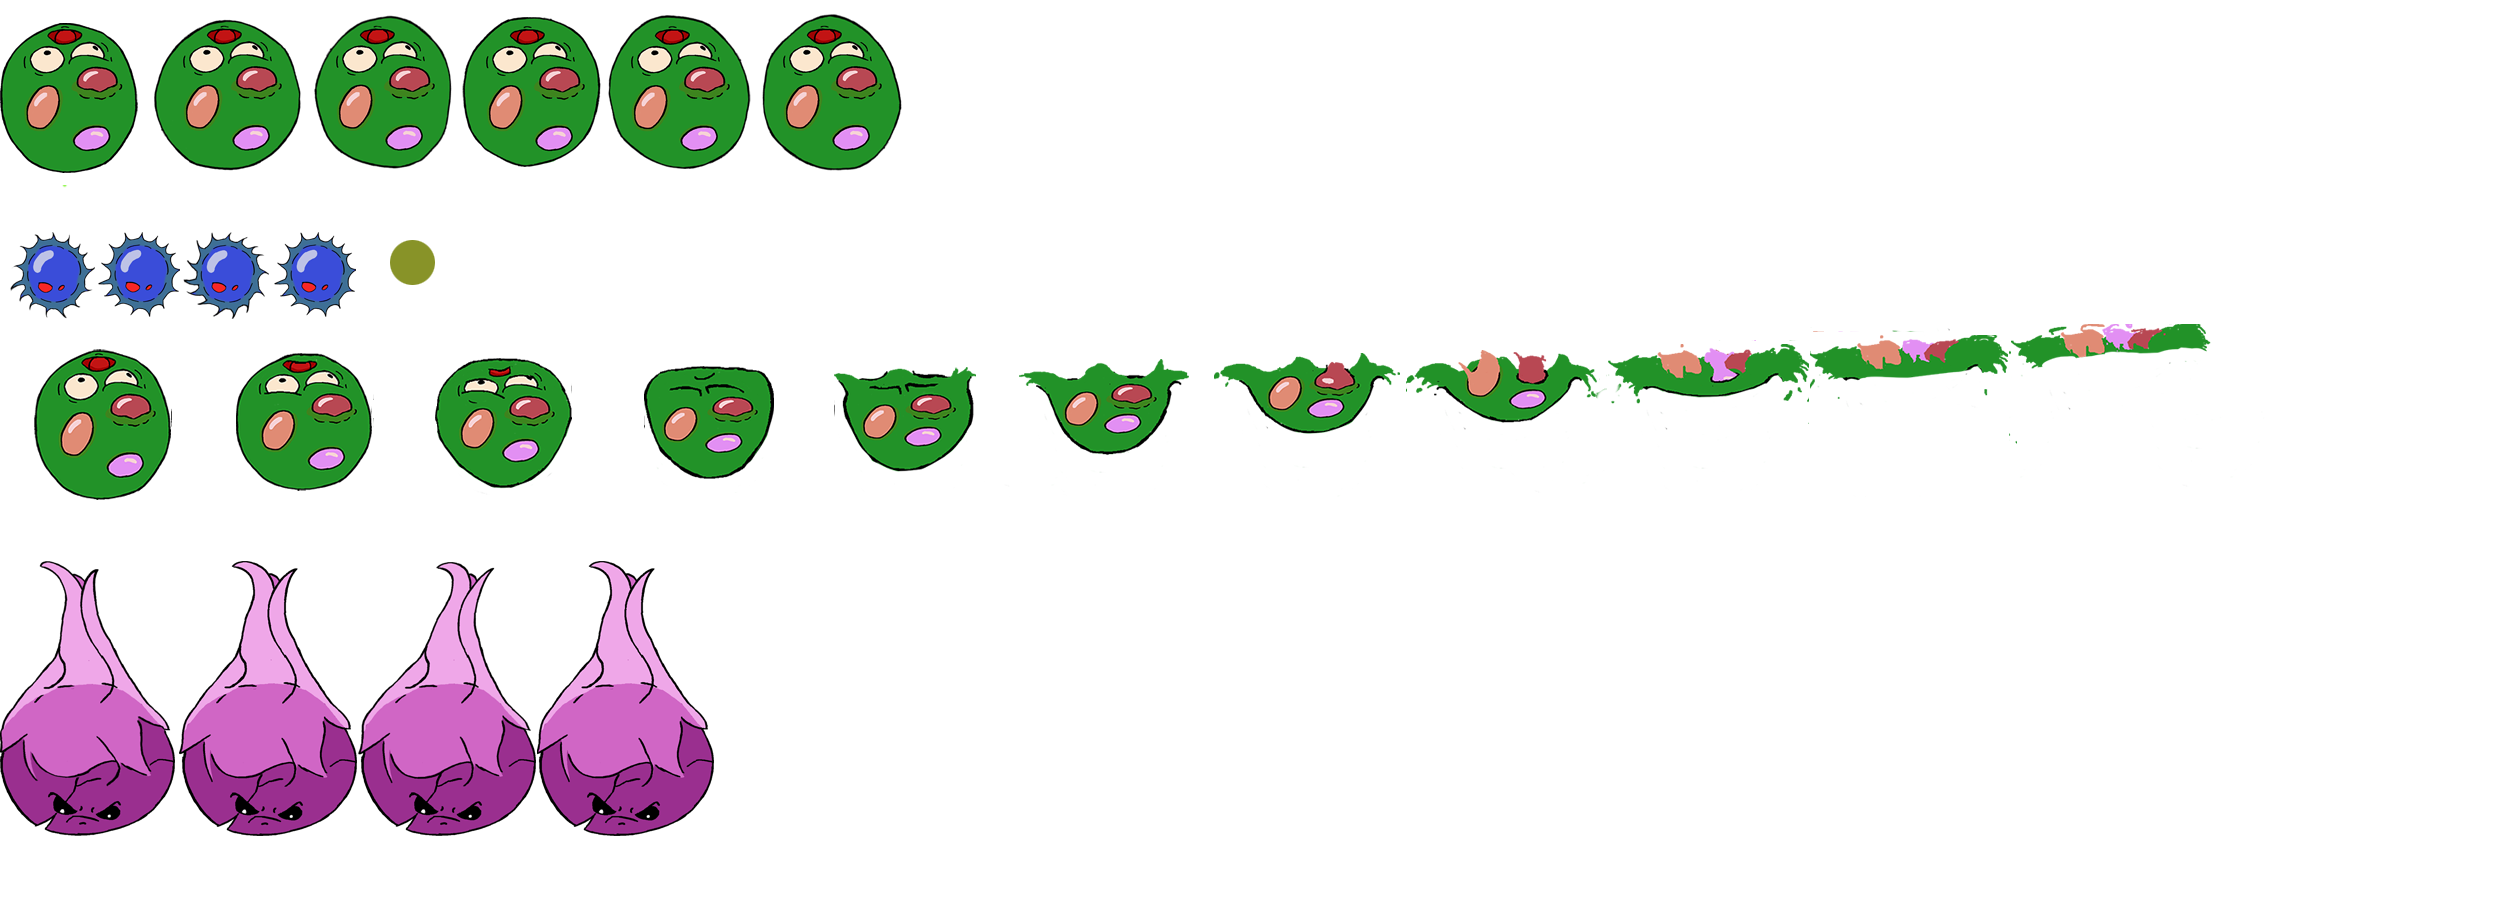
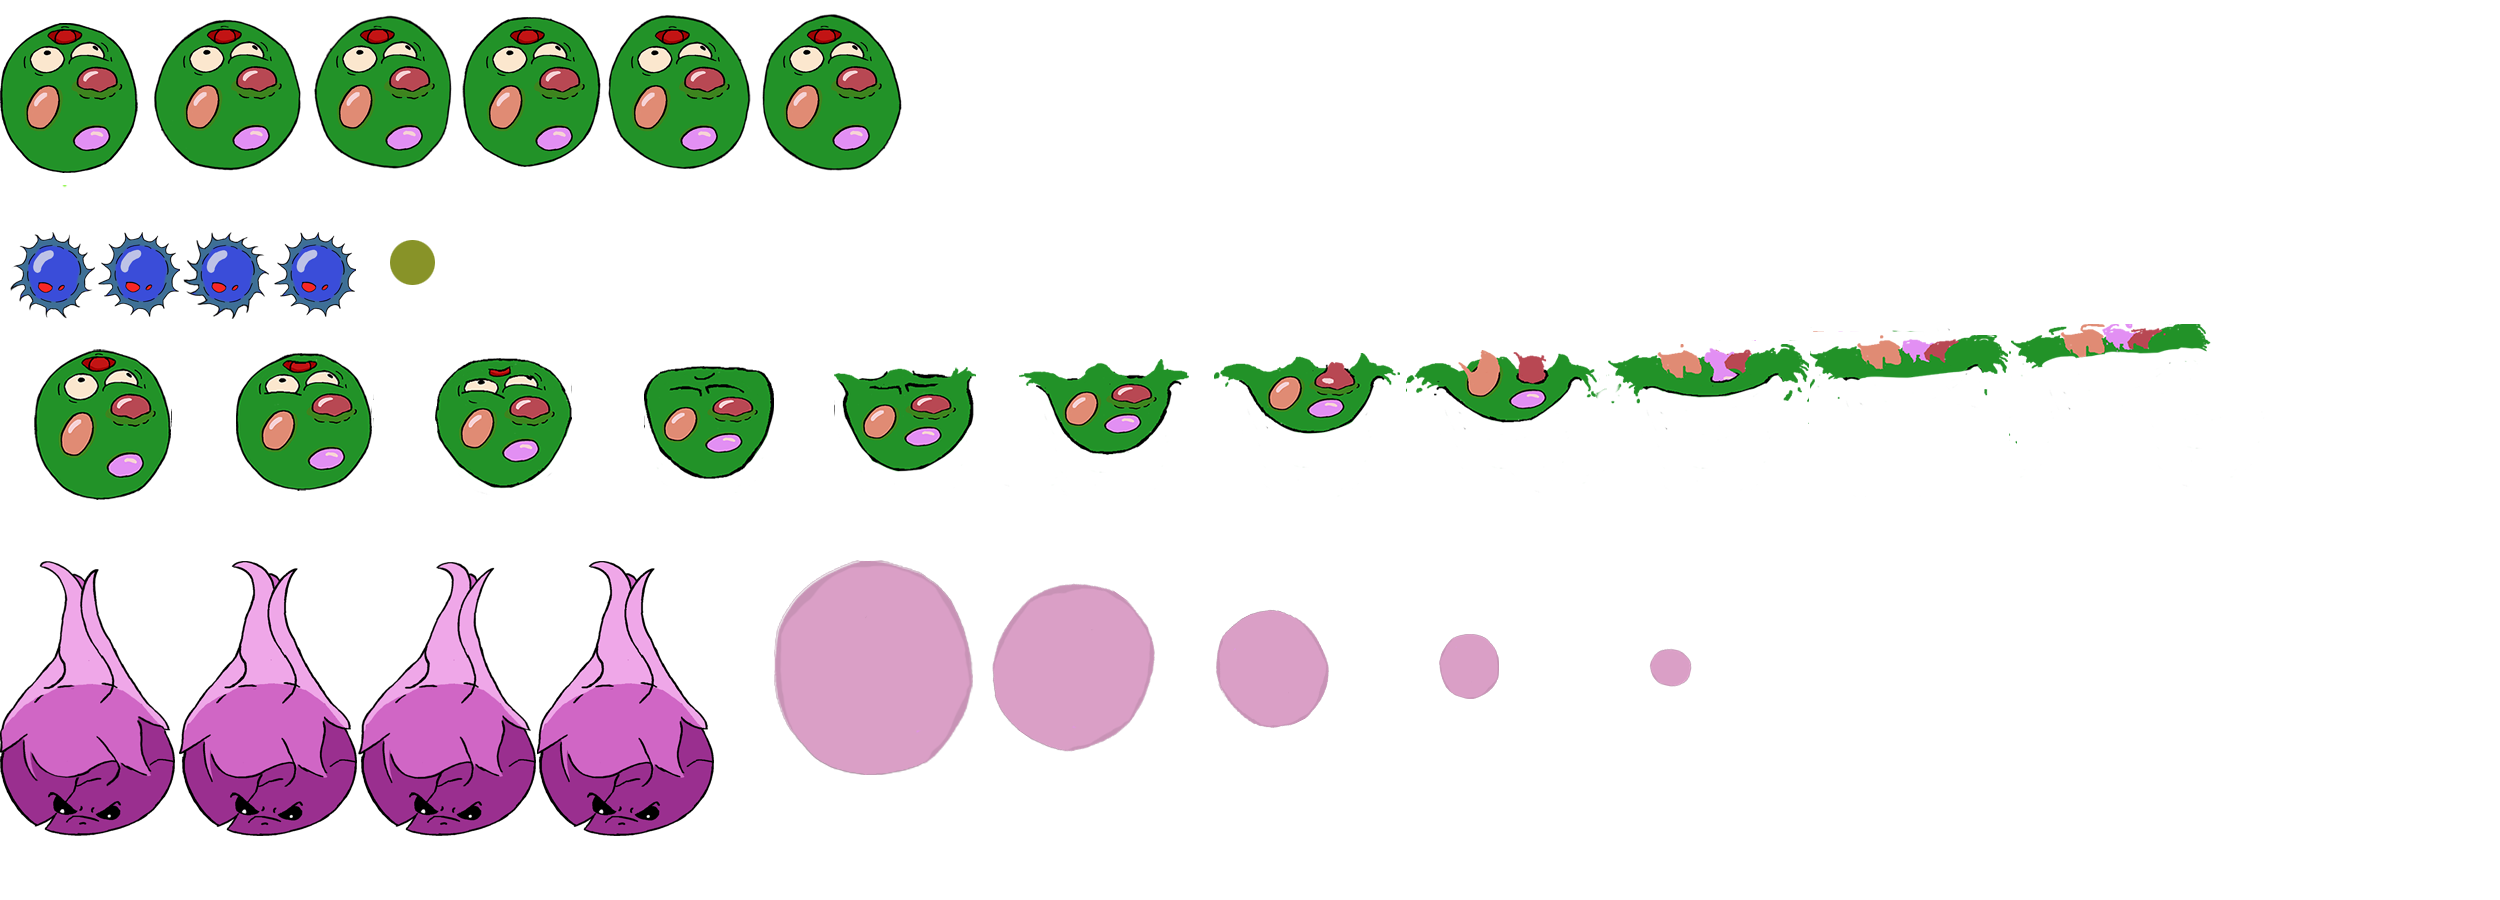
added estela

Changed region(s): [[0.312, 0.6222, 0.5304, 0.8711], [0.5616, 0.6844, 0.624, 0.7778], [0.6552, 0.7156, 0.6864, 0.7778]]

diff --git a/Dont-smile/ModulePlayer.cpp b/Dont-smile/ModulePlayer.cpp
@@ -49,6 +49,22 @@ ModulePlayer::ModulePlayer()
 	splash.PushBack({ 2010,321,200,177 });
 	splash.speed = 0.3f;
 
+	
+	estela.anim.PushBack({ 774,560,199,213 });
+	estela.anim.PushBack({ 973,560,199,213 });
+	estela.anim.PushBack({ 1172,560,199,213 });
+	estela.anim.PushBack({ 1371,560,199,213 });
+	estela.anim.PushBack({ 1570,560,199,213 });
+
+	estela.anim.PushBack({ 0,0,0,0 });
+
+	estela.anim.speed = 0.2f;
+	estela.speed = { 0,0 };
+	estela.anim.loop = false;
+	estela.life = 600;
+
+
+
 }
 
 ModulePlayer::~ModulePlayer()
@@ -114,10 +130,7 @@ bool ModulePlayer::Start()
 	if (spaceship_collider==nullptr)
 	spaceship_collider = App->collision->AddCollider({ 0,0, 145, 150 }, COLLIDER_BOX, this);//COLLIDER_PLAYER
 
-	total_bombs = 3;
-	bomb_thrown = 0;
-	bomb_life = 0;
-	last_bomb = 0;
+	estela_time = SDL_GetTicks();
 
 
 
@@ -314,6 +327,12 @@ update_status ModulePlayer::Update()
 			spaceship_collider->SetPos(position.x+5, position.y);
 
 		// Draw everything --------------------------------------
+
+		if ((SDL_GetTicks() - estela_time)>40) {//time between particles
+			App->particles->AddParticle(estela, position.x, position.y, COLLIDER_BOX);
+			estela_time = SDL_GetTicks();
+		}
+
 		App->render->Blit(graphics, position.x, position.y, &(current_animation->GetCurrentFrame()));
 
 		
@@ -346,20 +365,9 @@ update_status ModulePlayer::Update()
 
 		LOG("%d", App->render->camera.x);
 
-		////////////////////PARTICLE
-
-		estela.position.x = position.x;
-		estela.position.y = position.y;
-		
-		estela.section.h *= estela.scale;
-		estela.section.w *= estela.scale;
-
-
-		estela.scale -= 0.0000000000001f;
-
 		App->level1->scroll();
 
-		App->render->Blit(graphics, estela.position.x, estela.position.y, &estela.section, 0);
+		
 
 		
 
@@ -424,7 +432,7 @@ void ModulePlayer::Dead() {
 	
 	App->player2->player2 = false;
 	App->fade->FadeToBlack((Module*)App->level1, (Module*)App->intro);
-	App->particles->AddParticle(dead_explosion, position.x, position.y, COLLIDER_EXPLOSION,0, "Assets/Audio/Fx_Player_Explosion.wav");
+	//App->particles->AddParticle(dead_explosion, position.x, position.y, COLLIDER_EXPLOSION,0, "Assets/Audio/Fx_Player_Explosion.wav");
 	App->textures->Unload(graphics);
 		
 }

diff --git a/Dont-smile/ModulePlayer.h b/Dont-smile/ModulePlayer.h
@@ -59,16 +59,13 @@ public:
 	Animation idle;
 	Animation splash;
 
-	Particle dead_explosion;
+	
 	Particle bomb_explosion;
 	fPoint position;
 	fPoint saved_position;
 
 
-	uint win_chain;
 	
-	
-
 
 
 	Collider* spaceship_collider;
@@ -80,8 +77,8 @@ public:
 	uint high_score = 0;
 	uint score = 0;
 	int total_bombs;
-	Uint32 bomb_thrown;
-	Uint32 bomb_life;
+	Uint32 born;
+	Uint32 estela_time;
 	Uint32 last_bomb;
 	int spaceship_speed;
 
@@ -101,6 +98,11 @@ public:
 
 	Mix_Chunk* fx_shoot = nullptr;
 	//////
+
+	uint win_chain;
+
+	Particle estela;
+
 
 	vec_2d acceleration_vec = {0, 0};
 	vec_2d speed_vec = { 0,0 };
@@ -122,7 +124,7 @@ public:
 	int counter = 0;
 	int max = 2;
 
-	particle estela;
+	
 	
 	
 };

diff --git a/Dont-smile/ModuleParticles.cpp b/Dont-smile/ModuleParticles.cpp
@@ -23,7 +23,7 @@ ModuleParticles::~ModuleParticles()
 bool ModuleParticles::Start()
 {
 	LOG("Loading particles");
-		graphics = App->textures->Load("Assets/Images/Particles_Spritesheet.png");
+		graphics = App->textures->Load("Assets/Images/Raiden_Spaceship.png");
 
 	if (graphics == nullptr) {
 		LOG("Error loading particles");

diff --git a/Dont-smile/Globals.h b/Dont-smile/Globals.h
@@ -29,7 +29,7 @@ typedef unsigned int uint;
 #define SCREEN_WIDTH 1280
 #define SCREEN_HEIGHT 720
 #define WIN_FULLSCREEN 0
-#define WIN_FULLSCREEN_DESKTOP 1
+#define WIN_FULLSCREEN_DESKTOP 0
 #define WIN_BORDERLESS 0
 #define WIN_RESIZABLE 0
 #define REN_VSYNC 1
